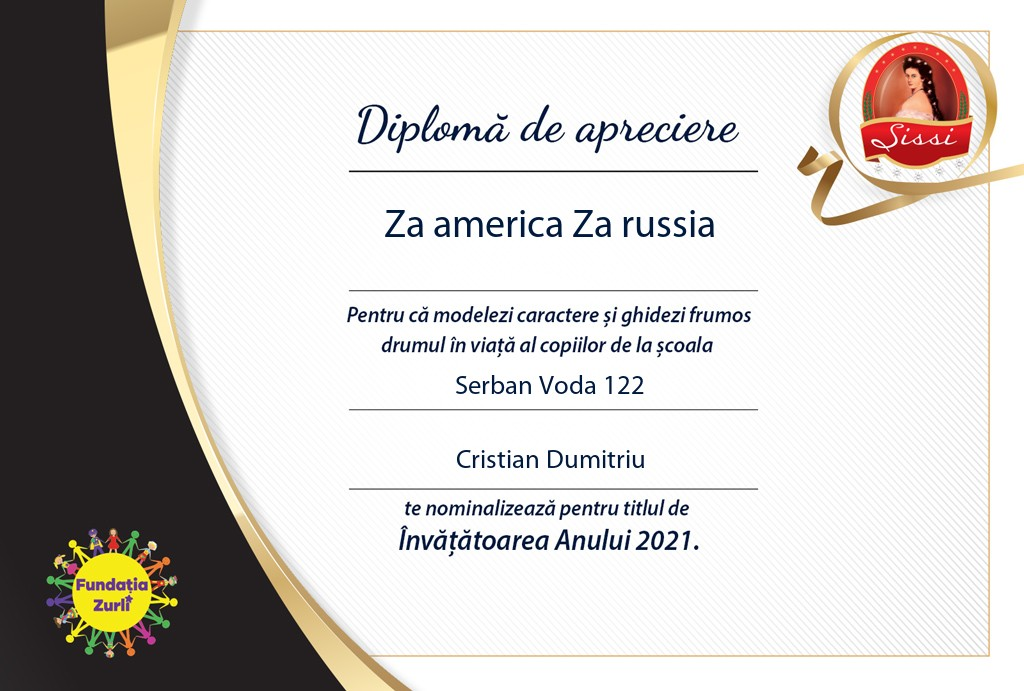
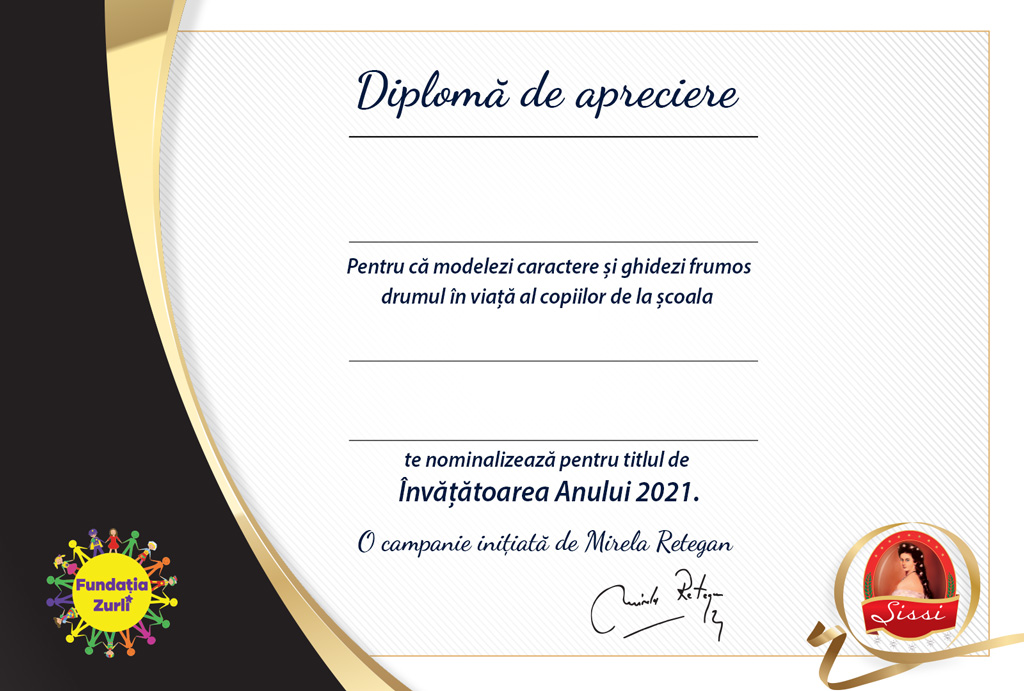
first deploy

diff --git a/html/plugins/cdumitriu/teacher/components/teacherform/default.htm b/html/plugins/cdumitriu/teacher/components/teacherform/default.htm
@@ -43,11 +43,11 @@
                             <input type="checkbox" class="form-check-input" id="exampleCheck1" required>
                             <label class="form-check-label" for="exampleCheck1">Am citit
 
-                                <a href="{{'assets/docs/regulament_invatatoarea_anului.pdf'|theme}}" target="_blank">regulamentul concursului</a> si sunt de acord.
+                                <a href="{{'assets/docs/regulament_invatatoarea_anului.pdf'|theme}}" target="_blank">regulamentul campaniei</a> si sunt de acord.
                             </label>
                         </div>
 
-                        <button type="submit" class="btn btn-primary btn-block btn-sm" >Inscrie invatatoarea</button>
+                        <button type="submit" class="btn btn-primary btn-block btn-sm">Înscrie învațătoarea</button>
                     </div>
                 </div>
                 <!-- do not del required for test to be moved
@@ -62,7 +62,7 @@
                 <div class="col-sm-6">
                     <div class="contact-form">
                         <div id="imageResult" >
-                            <h4 class="text-center">Te rugam, verifica corectitudinea datelor.</h4>
+                            <h4 class="text-center">Te rugăm să verifici corectitudinea datelor.</h4>
                             <img src="/storage/app/media/teachers/templates/diploma_fng_original.jpg" >
                             <div id="invatatoare-mirela" class="font-mirela">Numele dnei/dnlui invatator</div>
                             <div id="parinte-mirela" class="font-mirela">Numele tau</div>
@@ -84,7 +84,7 @@
 
     #parinte-mirela{
         position: absolute;
-        top: 60%;
+        top: 53%;
 
     }
 

diff --git a/html/plugins/cdumitriu/teacher/components/teacherform/sissi.htm b/html/plugins/cdumitriu/teacher/components/teacherform/sissi.htm
@@ -43,7 +43,7 @@
                         <div class="form-check">
                             <input type="checkbox" class="form-check-input" id="exampleCheck1" required>
                             <label class="form-check-label" for="exampleCheck1">Am citit
-                                <a href="{{'assets/docs/regulament_invatatoarea_anului.pdf'|theme}}" target="_blank">regulamentul concursului</a> si sunt de acord.
+                                <a href="{{'assets/docs/regulament_invatatoarea_anului.pdf'|theme}}" target="_blank">regulamentul campaniei</a> si sunt de acord.
                             </label>
                         </div>
 
@@ -76,7 +76,7 @@
 <style>
     #invatatoare-mirela{
         position: absolute;
-        top: 40%;
+        top: 35%;
         text-shadow: white -1px -2px 2px;
         font-weight: bold;
         color: black;
@@ -84,7 +84,7 @@
 
     #parinte-mirela{
         position: absolute;
-        top: 67%;
+        top: 62%;
 
     }
 
@@ -118,6 +118,19 @@
             font-weight: bold;
             left: 10%;
         }
+        #invatatoare-mirela{
+            position: absolute;
+            top: 44%;
+            text-shadow: white -1px -2px 2px;
+            font-weight: bold;
+            color: black;
+        }
+        #parinte-mirela{
+            position: absolute;
+            top: 65%;
+
+        }
+
     }
 </style>
 

diff --git a/html/themes/jtherczeg-multi/partials/cta2-sissi.htm b/html/themes/jtherczeg-multi/partials/cta2-sissi.htm
@@ -12,10 +12,11 @@ function onStart()
 ==
 <section id="cta2" style="padding:0;">
     <div class="container">
-        <h2 class="wow fadeInUp" data-wow-duration="300ms" data-wow-delay="0ms">Au mai ramas {{days}} zile pana la alegerea castigatorului</h2>
-        <p class="wow fadeInUp" data-wow-duration="300ms" data-wow-delay="100ms">Trimite-ne nominalizarea ta, spune-ne de ce este cea mai buna invatatoare din lume si noi o premiem</p>
+        <h2 class="wow fadeInUp" data-wow-duration="300ms" data-wow-delay="0ms">Au mai ramas {{days}} zile pâna la alegerea castigatorului</h2>
+        <p class="wow fadeInUp" data-wow-duration="300ms" data-wow-delay="100ms">Trimite-ne nominalizarea ta, spune-ne de ce este cea mai
+            buna invatatoare din lume si noi o premiem</p>
         <p class="wow fadeInUp" data-wow-duration="300ms" data-wow-delay="200ms">
-            <a class="btn btn-primary btn-lg" href="{{'/inscriere'}}">Trimite nominalizarea ta</a>
+          <!--  <a class="btn btn-primary btn-lg" href="{{'/inscriere'}}">Trimite nominalizarea ta</a>-->
         </p>
         <img class="img-responsive wow fadeIn" src="{{ 'assets/images/sissi-transparents.png'|theme }}" alt="" data-wow-duration="300ms" data-wow-delay="300ms">
     </div>

diff --git a/html/themes/jtherczeg-multi/partials/footer.htm b/html/themes/jtherczeg-multi/partials/footer.htm
@@ -2,14 +2,7 @@
 <div class="container mt-3">
 
             <div class="row">
-                <div class="col-sm-3">
-                    <ul class="links">
-
-
-                    </ul>
-                </div>
-
-                <div class="col-sm-3">
+                <div class="col-sm-4">
                     <ul class="links">
                         <li><a href="https://mirelaretegan.ro/"> Mirela Retegan</a></li>
                         <li><a href="https://zurli.ro/">Zurli</a></li>
@@ -17,13 +10,13 @@
                     </ul>
                 </div>
 
-                <div class="col-sm-3">
+                <div class="col-sm-4">
                     <ul class="links">
                         <li><a href="https://www.facebook.com/SissiRomania">Sissi România</a></li>
                         <li><a href="https://www.casacarolistilor.ro/">Caroli Foods Group</a></li>
                     </ul>
                 </div>
-                <div class="col-sm-3">
+                <div class="col-sm-4">
                     <ul class="links">
                         <li>Contact – e-mail: fundatia@zurli.ro, telefon 0741.530.408</li>
 

diff --git a/html/themes/jtherczeg-multi/pages/succes.htm b/html/themes/jtherczeg-multi/pages/succes.htm
@@ -18,12 +18,12 @@ is_hidden = 0
             <div class="col-sm-6 text-center">
                 <!-- verifica daca utilizatorul vine din pagina -->
                 <br>
-                <h3 >Felicitari, ai nominalizat invatatoarea cu succes!</h3><br>
-                <h4>Daca doresti sa ii faci cunoscut gestul tau, ii poti oferi o diploma de apreciere.</h4>
+                <h3>Felicitări, ai nominalizat învățătoarea cu succes!</h3><br>
+                <h4>Dacă dorești să faci cunoscut gestul tău, îi poți oferi în dar o diplomă de apreciere.</h4>
                 <br>
                 <div style="marin-top:35px">
                    <!-- <p class="text-center"><a class="btn btn-primary" href="/nominalizarile-anului">Vezi si alte nominalizari</a></p>-->
-                    <p class="text-center"><a class="btn btn-primary" href="{{image}}" download>Descarca diploma</a></p>
+                    <p class="text-center"><a class="btn btn-primary" href="{{image}}" download>Descarcă diploma</a></p>
                 </div>
             </div>
             <br>
@@ -33,4 +33,3 @@ is_hidden = 0
         </div>
     </div>
 </div>
-

diff --git a/html/themes/jtherczeg-multi/pages/index.htm b/html/themes/jtherczeg-multi/pages/index.htm
@@ -4,13 +4,9 @@ layout = "default"
 description = "First page"
 is_hidden = 0
 ==
-<section id="cta2">
-    <div class="container">
-        <div class="text-center">
-            {% partial "cta2-fng.htm" %}
-        </div>
-    </div>
-</section>
+
+ {% partial "cta2-fng.htm" %}
+
 <div class="container-wrapper">
     <div class="container">
 

diff --git a/html/themes/jtherczeg-multi/layouts/default.htm b/html/themes/jtherczeg-multi/layouts/default.htm
@@ -18,7 +18,7 @@ description = "default layout"
 </header><!--/header-->
 
 {% page %}
-
+<!--
     <div class="container">
         <div class="row">
             <div class="col-12">
@@ -27,7 +27,7 @@ description = "default layout"
             </div>
         </div>
     </div>
-
+-->
 
 <footer id="footer">
     {% partial "footer" %}

diff --git a/html/themes/jtherczeg-multi/pages/home.htm b/html/themes/jtherczeg-multi/pages/home.htm
@@ -21,13 +21,10 @@ is_hidden = 0
     {% partial "features" %}
 </section><!--/#features-->
 
-<section id="cta2">
-    <div class="container">
-        <div class="text-center">
+
             {% partial "cta2" %}
-        </div>
-    </div>
-</section>
+
+
 
 <section id="services" >
     {% partial "services" %}

diff --git a/html/themes/jtherczeg-multi/pages/nominalizarile-anului.htm b/html/themes/jtherczeg-multi/pages/nominalizarile-anului.htm
@@ -6,6 +6,7 @@ is_hidden = 0
 
 [TeacherList]
 ==
+{% partial "cta2-fng-no-button.htm" %}
 {% set teachers = TeacherList.teachers %}
 <div class="container" class="text-center">
     <div class="grid-container">

diff --git a/html/plugins/cdumitriu/teacher/components/TeacherForm.php b/html/plugins/cdumitriu/teacher/components/TeacherForm.php
@@ -108,7 +108,7 @@
             $originalImage = public_path('public/sissi_diploma.jpg');
 
             $img = Image::make($originalImage)->fit(1024,691);
-            $img->text($this->teacherName . ' ' .$this->teacherSurname, 550, 210, function ($font) {
+            $img->text($this->teacherName . ' ' .$this->teacherSurname, 550, 160, function ($font) {
                 $font->color('#00193f');
                 $font->size(40);
                 $font->file(storage_path('fonts/MYRIADPRO-REGULAR.OTF'));
@@ -116,7 +116,7 @@
                 $font->valign('top');
             });
 
-            $img->text($this->teacherSchool, 550, 375, function ($font) {
+            $img->text($this->teacherSchool, 550, 315, function ($font) {
                 $font->color('#00193f');
                 $font->size(26);
                 $font->file(storage_path('fonts/MYRIADPRO-REGULAR.OTF'));
@@ -124,7 +124,7 @@
                 $font->valign('top');
             });
 
-            $img->text($this->userName . ' ' .$this->userSurname, 550, 450, function ($font) {
+            $img->text($this->userName . ' ' .$this->userSurname, 550, 410, function ($font) {
                 $font->color('#00193f');
                 $font->size(26);
                 $font->file(storage_path('fonts/MYRIADPRO-REGULAR.OTF'));
@@ -182,7 +182,7 @@
                 $font->valign('top');
             });
 
-            $img->text($this->teacherSchool, 400, 240, function ($font) {
+            $img->text($this->teacherSchool, 400, 225, function ($font) {
                 $font->color('#ffff');
                 $font->size(22);
                 $font->file(storage_path('fonts/MYRIADPRO-SEMIBOLDIT.OTF'));
